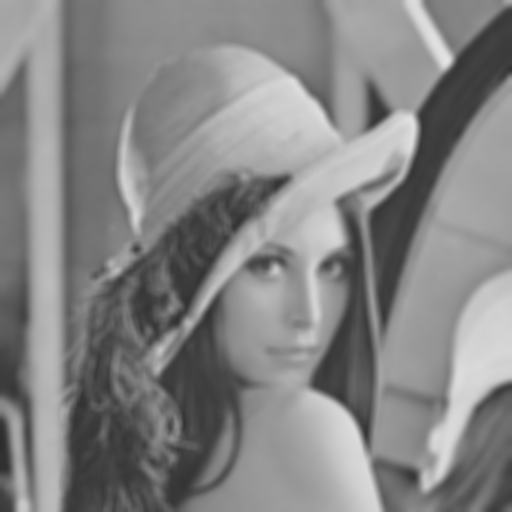
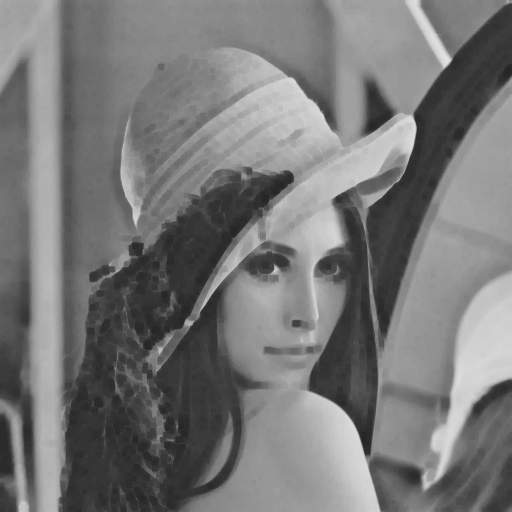
Erosion kernel

diff --git a/kernel_launcher.h b/kernel_launcher.h
@@ -9,9 +9,9 @@
 
 //cudaError_t launchGaussianBlurShared(const uchar* d_input, uchar* d_output, int rows, int cols, int kernelWidth, float sigma, dim3 grid, dim3 block);
 cudaError_t launchGaussianBlur(const uchar* d_input, uchar* d_output, int rows, int cols, int kernelWidth, float sigma, dim3 grid, dim3 block);
-cudaError_t launchErosion(const uchar* d_input, uchar* d_output, int rows, int cols, const uchar* d_mask, cv::Size kernelSize, dim3 grid, dim3 block);
-cudaError_t launchDilation(const uchar* d_input, uchar* d_output, int rows, int cols, const uchar* d_mask, cv::Size kernelSize, dim3 grid, dim3 block);
-cudaError_t launchOpening(const uchar* d_input, uchar* d_output, int rows, int cols, const uchar* d_mask, cv::Size kernelSize, dim3 grid, dim3 block);
-cudaError_t launchClosing(const uchar* d_input, uchar* d_output, int rows, int cols, const uchar* d_mask, cv::Size kernelSize, dim3 grid, dim3 block);
+cudaError_t launchErosion(const uchar* d_input, uchar* d_output, int rows, int cols, cv::Size kernelSize, int morphShape, dim3 grid, dim3 block);
+cudaError_t launchDilation(const uchar* d_input, uchar* d_output, int rows, int cols, cv::Size kernelSize, int morphShape, dim3 grid, dim3 block);
+cudaError_t launchOpening(const uchar* d_input, uchar* d_output, int rows, int cols, cv::Size kernelSize, int morphShape, dim3 grid, dim3 block);
+cudaError_t launchClosing(const uchar* d_input, uchar* d_output, int rows, int cols, cv::Size kernelSize, int morphShape, dim3 grid, dim3 block);
 
 #endif

diff --git a/kernel_launcher_utils.h b/kernel_launcher_utils.h
@@ -5,7 +5,7 @@
 #include "cuda_utils.cuh"
 #include "filter_types.h"
 
-uchar* prepareMorphMask(const FilterParams& params);
+//uchar* prepareMorphMask(const FilterParams& params);
 float* generateGaussianKernel1D(int size, float sigma);
 bool isMorphologicalFilter(FilterType type);
 
